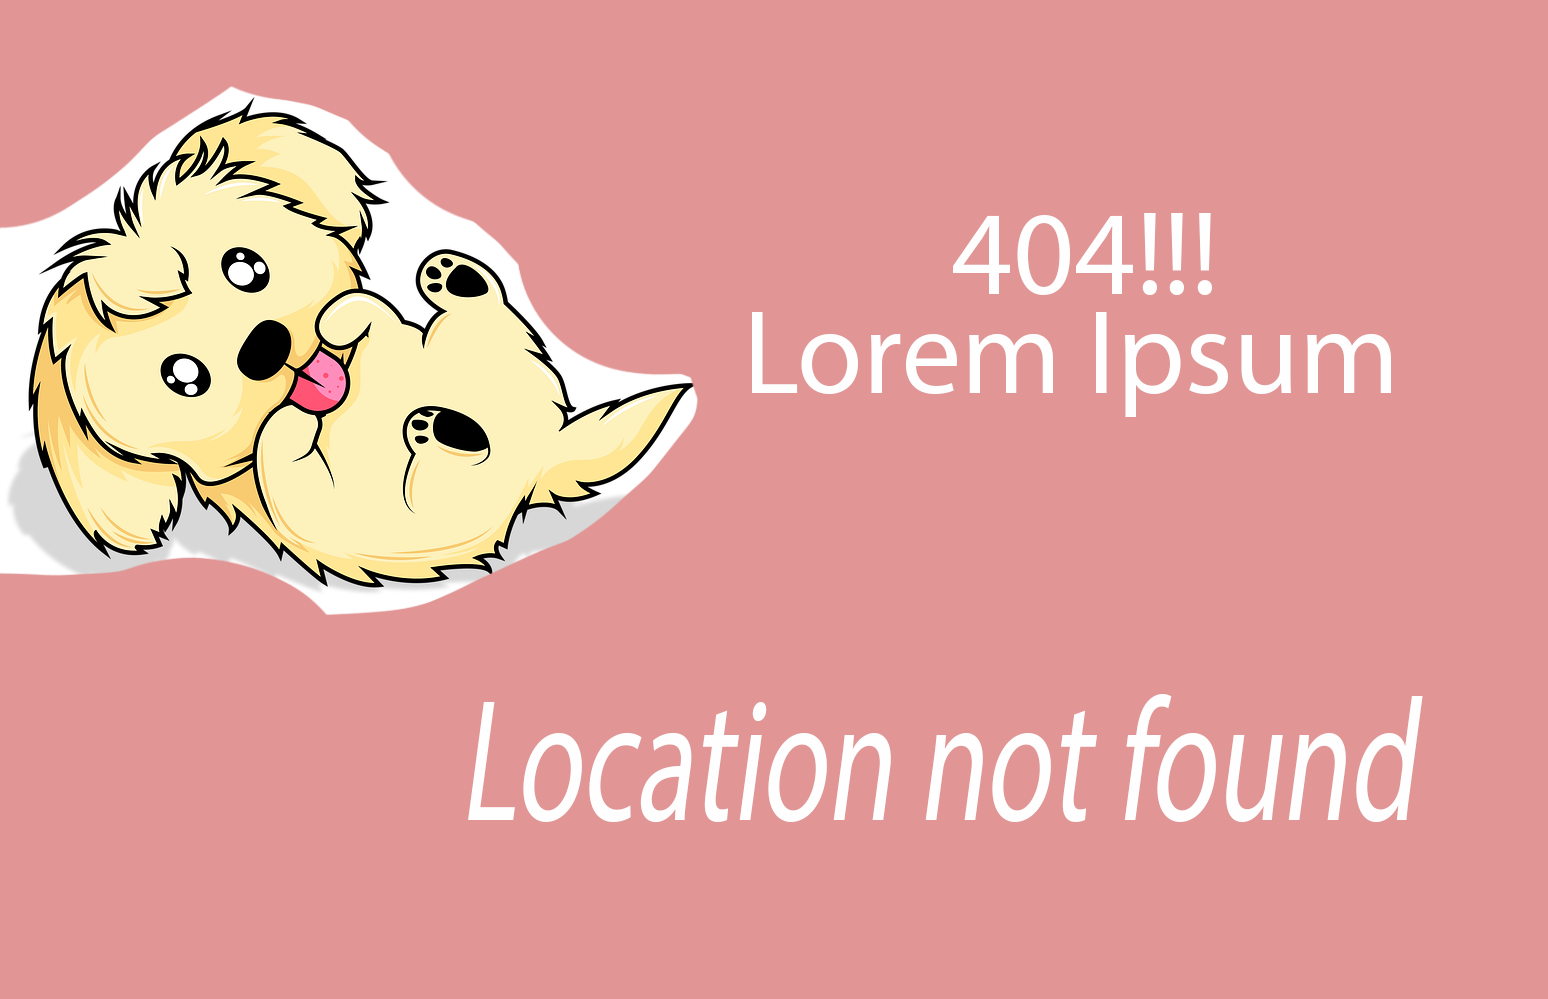
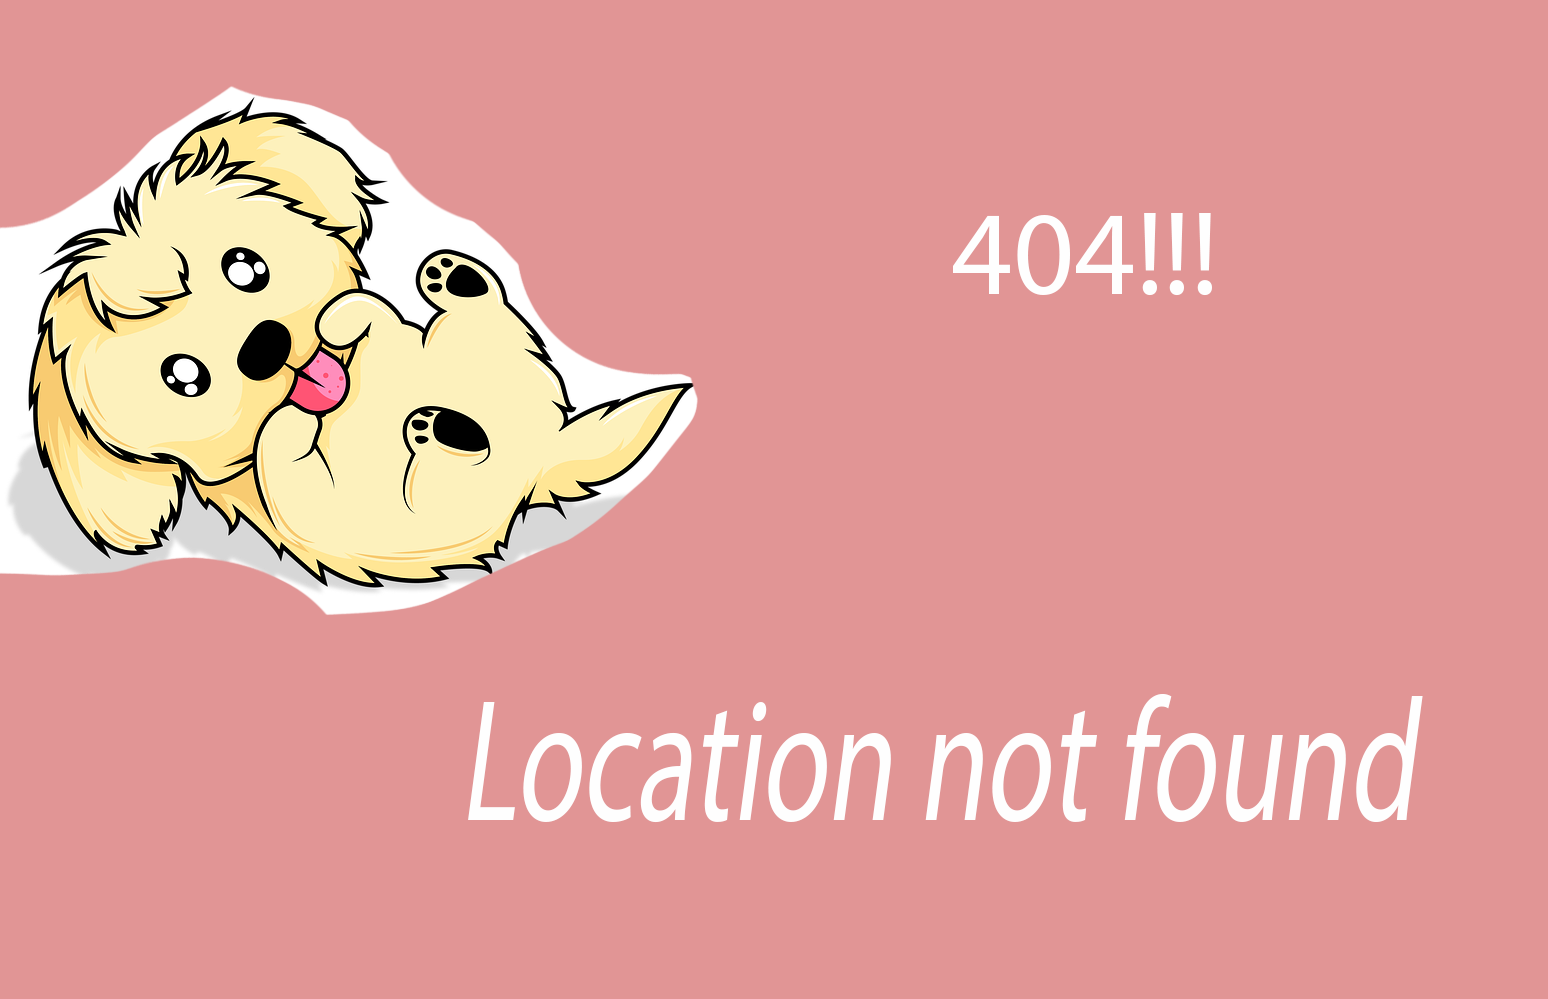
rr

Changed region(s): [[0.4651, 0.3103, 0.8992, 0.4344]]

diff --git a/style.css b/style.css
@@ -1,186 +1,186 @@
 * {
-    margin: 0;
-    padding: 0;
-    border: 0;
-    outline: none;
-    box-sizing: border-box;
+  margin: 0;
+  padding: 0;
+  border: 0;
+  outline: none;
+  box-sizing: border-box;
 }
 
 body {
-    height: 100vh;
-    display: flex;
-    align-items: center;
-    justify-content: center;
-    background: #bab2ca;
+  height: 100vh;
+  display: flex;
+  align-items: center;
+  justify-content: center;
+  background: #bab2ca;
 }
 
 .container {
-    position: relative;
-    width: 400px;
-    height: 130px;
-    background: #e7dfdfcc;
-    padding: 28px 32px;
-    padding-top: 40px;
-    overflow: hidden;
-    border-radius: 18px;
-    font-family: ;
-    transition: 0.6s ease-out;
+  position: relative;
+  width: 400px;
+  height: 130px;
+  background: #e7dfdfcc;
+  padding: 28px 32px;
+  padding-top: 40px;
+  overflow: hidden;
+  border-radius: 18px;
+  font-family: ;
+  transition: 0.6s ease-out;
 }
 
 .search-box {
-    width: 100%;
-    height: min-content;
-    display: flex;
-    align-items: center;
-    justify-content: space-between;
+  width: 100%;
+  height: min-content;
+  display: flex;
+  align-items: center;
+  justify-content: space-between;
 }
 
-.search-box input{
-    color: rgb(116, 72, 94);
-    background: #e7dfdf5b;
-    width: 80%;
-    font-size: 24px;
-    font-weight: 500;
-    text-transform: uppercase;
-    padding-left: 32px;
+.search-box input {
+  color: rgb(116, 72, 94);
+  background: #e7dfdf5b;
+  width: 80%;
+  font-size: 24px;
+  font-weight: 500;
+  text-transform: uppercase;
+  padding-left: 32px;
 }
 
 .search-box input::placeholder {
-    font-size: 20px;
-    font-weight: 500;
-    color: darkgreen;
-    text-transform: capitalize;
+  font-size: 20px;
+  font-weight: 500;
+  color: darkgreen;
+  text-transform: capitalize;
 }
 
 .search-box button {
-    cursor: pointer;
-    width: 50px;
-    height: 50px;
-    color: black;
-    background: #9c9a9a63;
-    border-radius: 50%;
-    font-size: 22px;
-    transition: 0.4s ease;
+  cursor: pointer;
+  width: 50px;
+  height: 50px;
+  color: black;
+  background: #9c9a9a63;
+  border-radius: 50%;
+  font-size: 22px;
+  transition: 0.4s ease;
 }
 
 .search-box button:hover {
-    color:#fff;
-    background: black;
+  color: #fff;
+  background: black;
 }
 
 .search-box i {
-    position: absolute;
-    color: black;
-    font-size: 28px;
+  position: absolute;
+  color: black;
+  font-size: 28px;
 }
 
 .weather-box {
-    text-align: center;
+  text-align: center;
 }
 
 .weather-box img {
-    width: 60%;
-    margin-top: 30px;
+  width: 60%;
+  margin-top: 30px;
 }
 
 .weather-box .temperature {
-    position: relative;
-    color: rgb(63, 16, 49);
-    font-size: 4rem;
-    font-weight: 800;
-    margin-top: 30px;
-    margin-left: -16px;
+  position: relative;
+  color: rgb(63, 16, 49);
+  font-size: 4rem;
+  font-weight: 800;
+  margin-top: 30px;
+  margin-left: -16px;
 }
 
-.weather-box .temperature span{
-    position: absolute;
-    margin-left: 4px;
-    font-size: 1.5rem;
+.weather-box .temperature span {
+  position: absolute;
+  margin-left: 4px;
+  font-size: 1.5rem;
 }
 
 .weather-box .description {
-    color: pink;
-    font-size: 22px;
-    font-weight: 500;
-    text-transform: capitalize;
+  color: pink;
+  font-size: 22px;
+  font-weight: 500;
+  text-transform: capitalize;
 }
 
 .weather-details {
-    width: 100%;
-    display: flex;
-    justify-content: space-between;
-    margin-top: 30px;
+  width: 100%;
+  display: flex;
+  justify-content: space-between;
+  margin-top: 30px;
 }
 
 .weather-details .humidity .weather-details .wind {
-    display: flex;
-    align-items: center;
-    width: 50%;
-    height: 100px;
+  display: flex;
+  align-items: center;
+  width: 50%;
+  height: 100px;
 }
 
 .weather-details .humidity {
-    padding-left: 20px;
-    justify-content: flex-end;
+  padding-left: 20px;
+  justify-content: flex-end;
 }
 
 .weather-details .wind {
-    padding-right: 20px;
-    justify-content:  flex-end;
+  padding-right: 20px;
+  justify-content: flex-end;
 }
 
 .weather-details i {
-    color: rgb(19, 18, 18);
-    font-size: 26px;
-    margin-right: 10px;
-    margin-top: 6px;
+  color: rgb(19, 18, 18);
+  font-size: 26px;
+  margin-right: 10px;
+  margin-top: 6px;
 }
 
-.weather-details span{
-    color: rgb(63, 95, 95);
-    font-size: 22px;
-    font-weight: 500;
+.weather-details span {
+  color: rgb(63, 95, 95);
+  font-size: 22px;
+  font-weight: 500;
 }
 
-.weather-details p{
-    color: black;
-    font-size: 14px;
-    font-weight: 500;
+.weather-details p {
+  color: black;
+  font-size: 14px;
+  font-weight: 500;
 }
 
 .not-found {
-    width: 100%;
-    text-align: center;
-    margin-top: 50px;
-    scale: 0;
-    opacity: 0;
-    display: none;
+  width: 100%;
+  text-align: center;
+  margin-top: 50px;
+  scale: 0;
+  opacity: 0;
+  display: none;
 }
 
 .not-found img {
-    width: 70%;
+  width: 70%;
 }
 
 .not-found p {
-    color: white;
-    font-size: 22px;
-    font-weight: 500;
-    margin-top: 12px;
+  color: white;
+  font-size: 22px;
+  font-weight: 500;
+  margin-top: 12px;
 }
 
 .weather-box .weather-details {
-    scale: 0;
-    opacity: 0;
+  scale: 0;
+  opacity: 0;
 }
 
 .fade-in {
-    animation: 0.5s fadeIn forwards;
-    animation-delay: 0.5s;
+  animation: 0.5s fadeIn forwards;
+  animation-delay: 0.5s;
 }
 
-@keyframes fadeIn{
-    to {
-        scale: 1;
-        opacity: 1;
-    }
+@keyframes fadeIn {
+  to {
+    scale: 1;
+    opacity: 1;
+  }
 }

diff --git a/index.js b/index.js
@@ -36,23 +36,23 @@ search.addEventListener('click', () => {
 
             switch (json.weather[0].main) {
                 case 'Clear':
-                    image.src = 'images/clear.png';
+                    image.src = 'pics/clear.png';
                     break;
 
                 case 'Rain':
-                    image.src = 'images/rain.png';
+                    image.src = 'pics/rain.png';
                     break;
 
                 case 'Snow':
-                    image.src = 'images/snow.png';
+                    image.src = 'pics/snow.png';
                     break;
 
                 case 'Clouds':
-                    image.src = 'images/cloud.png';
+                    image.src = 'pics/clouds.png';
                     break;
 
                 case 'Haze':
-                    image.src = 'images/mist.png';
+                    image.src = 'pics/mist.png';
                     break;
 
                 default:
@@ -72,6 +72,4 @@ search.addEventListener('click', () => {
 
 
         });
-
-
 });

diff --git a/index.html b/index.html
@@ -9,7 +9,7 @@
         href="https://fonts.googleapis.com/css2?family=Poppins:wght@300;400;500;600;700;800;900&family=Roboto:wght@300;400;500;700;900&display=swap"
         rel="stylesheet">
     <link rel="stylesheet" href="style.css">
-    <title>Day #10 - Weather App | AsmrProg</title>
+    <title>Today's Weather</title>
 </head>
 
 <body>
@@ -20,9 +20,8 @@
             <input type="text" placeholder="Enter your location">
             <button class="fa-solid fa-magnifying-glass"></button>
         </div>
-
         <div class="not-found">
-            <img src="images/404.png">
+            <img src="pics/Cartoon-Dog.jpg.png">
             <p>Oops! Invalid location :/</p>
         </div>
 
@@ -48,11 +47,9 @@
                 </div>
             </div>
         </div>
-
     </div>
 
     <script src="https://kit.fontawesome.com/7c8801c017.js" crossorigin="anonymous"></script>
     <script src="index.js"></script>
 </body>
-
 </html>
